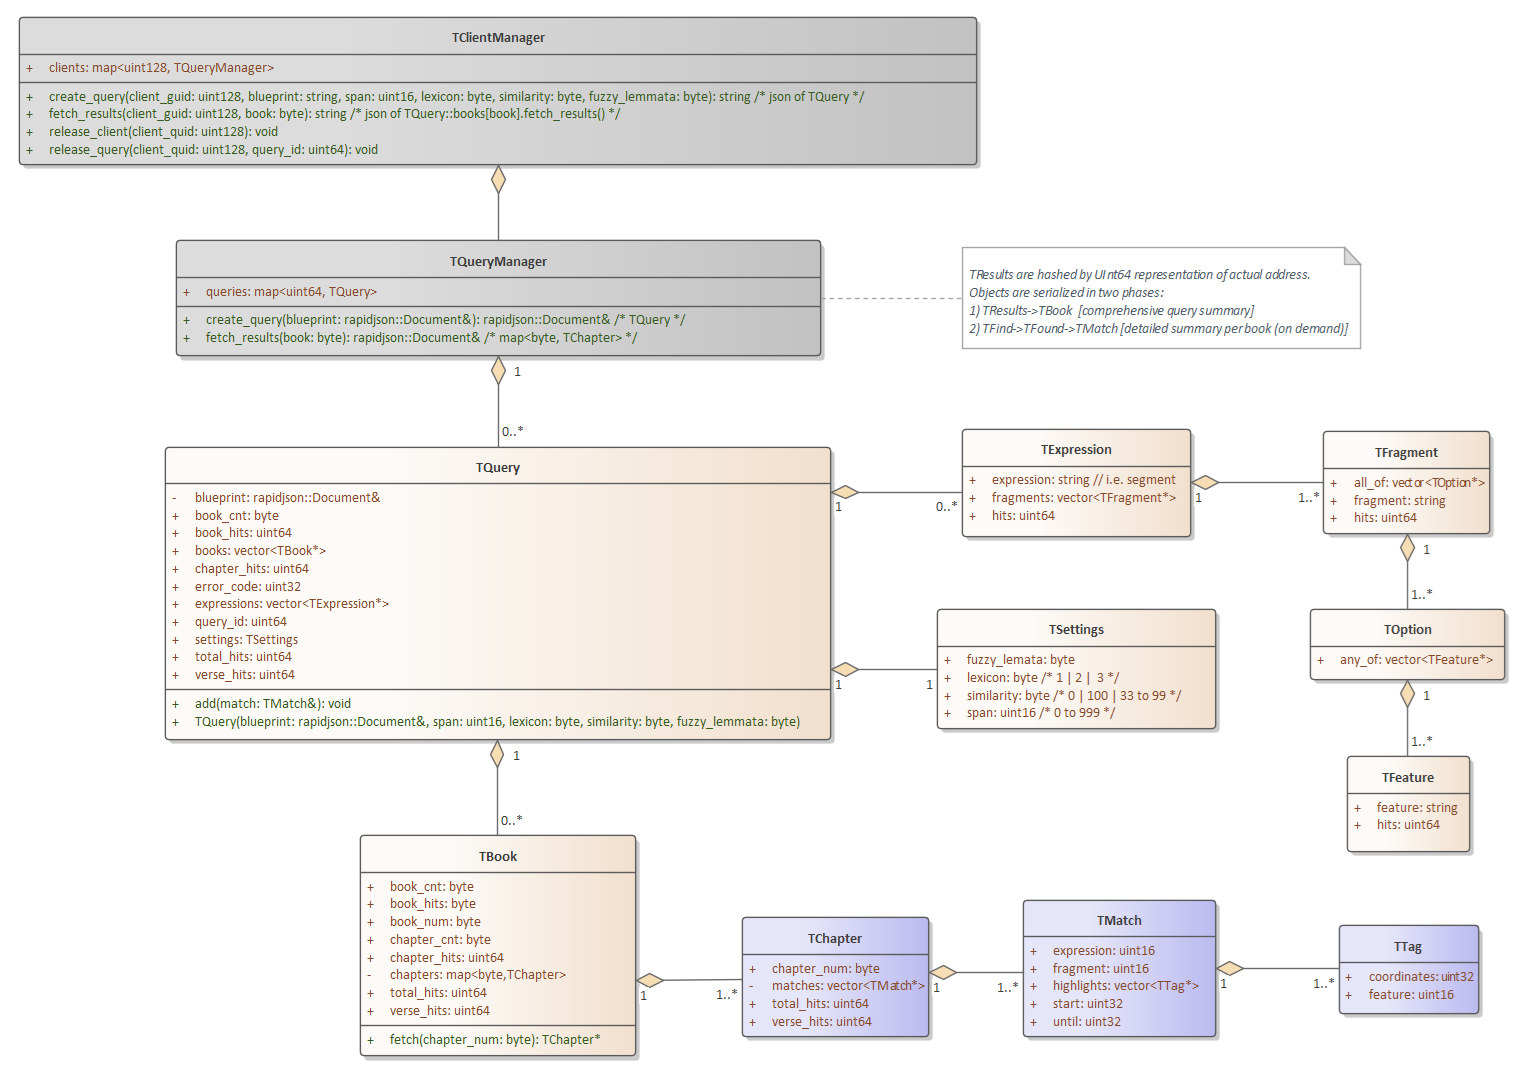
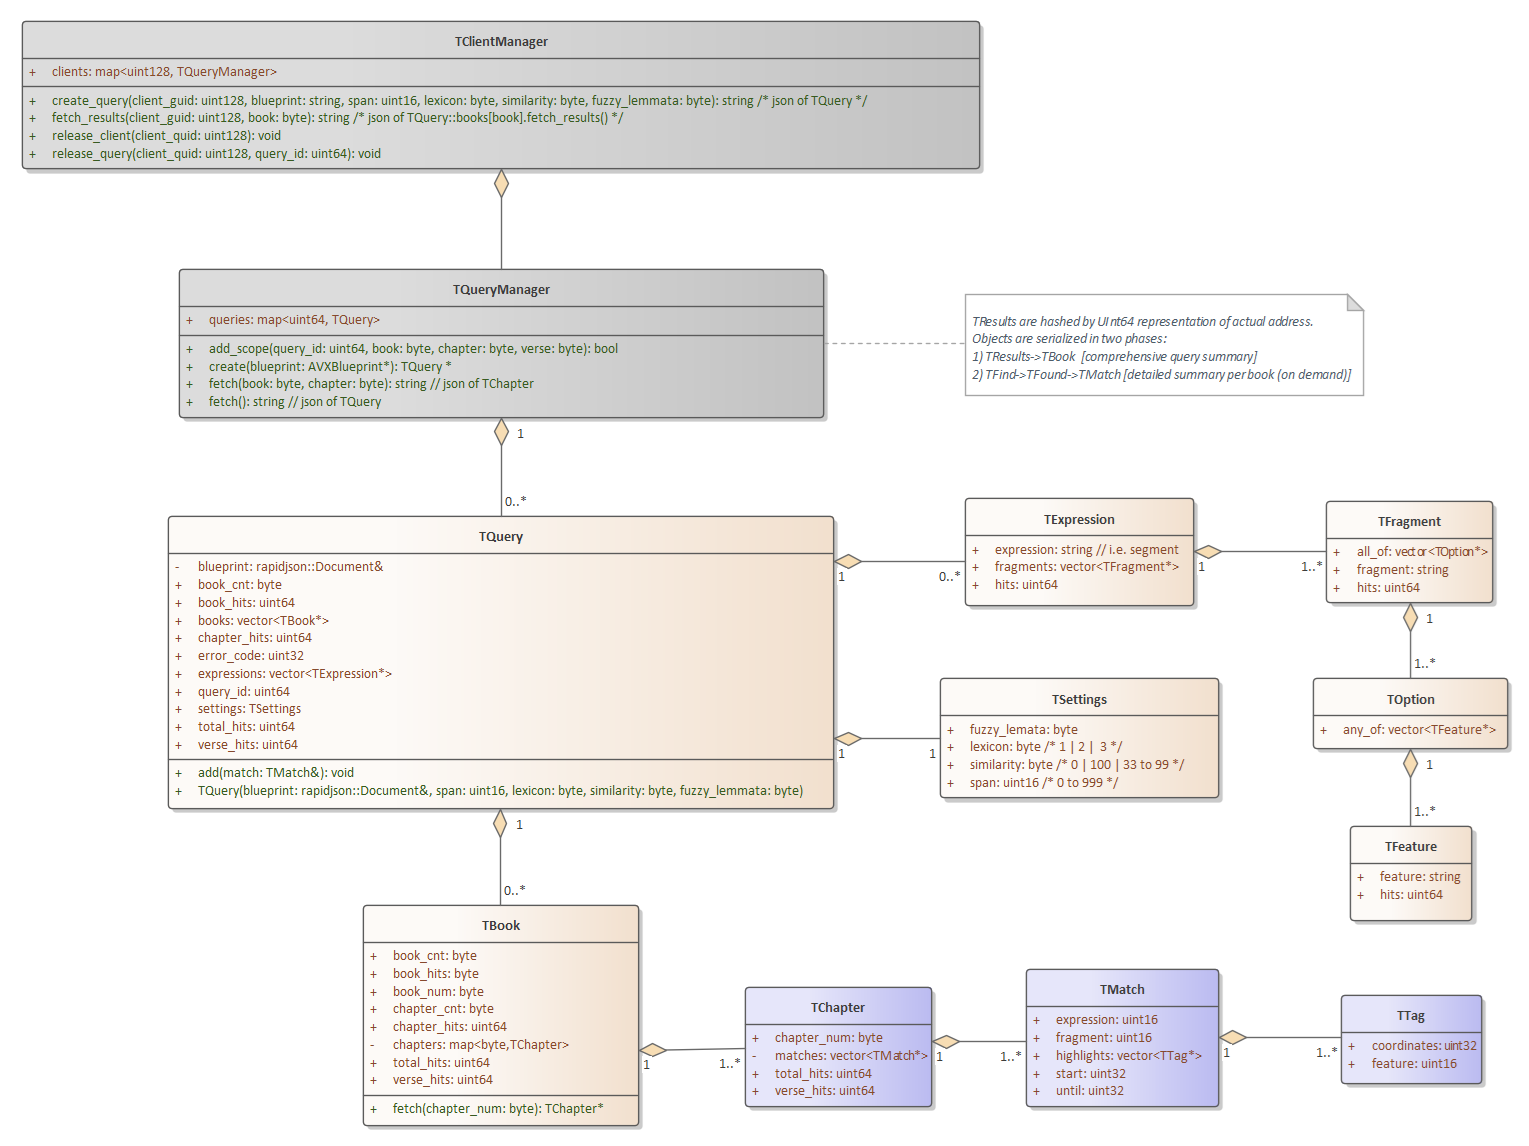
Cleaned up API and synced with spec/readme pic

diff --git a/AV-Engine/NativeLibrary.cs b/AV-Engine/NativeLibrary.cs
@@ -9,19 +9,17 @@
     {
         // AVX-Search:
         [DllImport("AVXSearch.dll", CharSet = CharSet.Ansi)]
-        private static extern UInt64 create_query(UInt64 client_id_1, UInt64 client_id_2, string blueprint, UInt16 span, byte lexicon, byte similarity, byte fuzzy_lemmata);
-        [DllImport("AVXSearch.dll", CharSet = CharSet.Ansi)]
-        private static extern string create_query_and_execute(UInt64 client_id_1, UInt64 client_id_2, string blueprint, UInt16 span, byte lexicon, byte similarity, byte fuzzy_lemmata);
+        private static extern UInt64 query_create(UInt64 client_id_1, UInt64 client_id_2, string blueprint, UInt16 span, byte lexicon, byte similarity, byte fuzzy_lemmata);
         [DllImport("AVXSearch.dll")]
-        private static extern byte add_scope(UInt64 client_id_1, UInt64 client_id_2, UInt64 query_id, byte book, byte chapter, byte verse);
+        private static extern byte query_add_scope(UInt64 client_id_1, UInt64 client_id_2, UInt64 query_id, byte book, byte chapter, byte verse);
         [DllImport("AVXSearch.dll", CharSet = CharSet.Ansi)]
-        private static extern string execute(UInt64 client_id_1, UInt64 client_id_2, UInt64 query_id);
+        private static extern string query_fetch(UInt64 client_id_1, UInt64 client_id_2, UInt64 query_id);
         [DllImport("AVXSearch.dll", CharSet = CharSet.Ansi)]
-        private static extern string fetch_results(UInt64 client_id_1, UInt64 client_id_2, UInt64 query_id, byte book);
+        private static extern string chapter_fetch(UInt64 client_id_1, UInt64 client_id_2, UInt64 query_id, byte book);
         [DllImport("AVXSearch.dll")]
-        private static extern void release_client(UInt64 client_id_1, UInt64 client_id_2);
+        private static extern void client_release(UInt64 client_id_1, UInt64 client_id_2);
         [DllImport("AVXSearch.dll")]
-        private static extern void release_query(UInt64 client_id_1, UInt64 client_id_2, UInt64 query_id);
+        private static extern void query_release(UInt64 client_id_1, UInt64 client_id_2, UInt64 query_id);
 
         private UInt64 ClientId_1
         {
@@ -58,35 +56,30 @@
         {
             this.ClientId = new Guid();
         }
-        internal UInt64 create_query(string blueprint, UInt16 span, byte lexicon, byte similarity, byte fuzzy_lemmata)
+        internal UInt64 query_create(string blueprint, UInt16 span, byte lexicon, byte similarity, byte fuzzy_lemmata)
         {
-            var result = NativeLibrary.create_query(this.ClientId_1, this.ClientId_2, blueprint, span, lexicon, similarity, fuzzy_lemmata);
-            return result;
-        }
-        internal string create_query_and_execute(string blueprint, UInt16 span, byte lexicon, byte similarity, byte fuzzy_lemmata)
-        {
-            var result = NativeLibrary.create_query_and_execute(this.ClientId_1, this.ClientId_2, blueprint, span, lexicon, similarity, fuzzy_lemmata);
+            var result = NativeLibrary.query_create(this.ClientId_1, this.ClientId_2, blueprint, span, lexicon, similarity, fuzzy_lemmata);
             return result;
         }
         internal string fetch_results(UInt64 query_id, byte book)
         {
-            return NativeLibrary.fetch_results(this.ClientId_1, this.ClientId_2, query_id, book);
+            return NativeLibrary.chapter_fetch(this.ClientId_1, this.ClientId_2, query_id, book);
         }
-        internal bool add_scope(UInt64 query_id, byte book, byte chapter, byte verse)
+        internal bool query_add_scope(UInt64 query_id, byte book, byte chapter, byte verse)
         {
-            return NativeLibrary.add_scope(this.ClientId_1, this.ClientId_2, query_id, book, chapter, verse) == (byte)1 ? true : false;
+            return NativeLibrary.query_add_scope(this.ClientId_1, this.ClientId_2, query_id, book, chapter, verse) == (byte)1 ? true : false;
         }
-        internal string execute(UInt64 query_id)
+        internal string fetch_summary(UInt64 query_id)
         {
-            return NativeLibrary.execute(this.ClientId_1, this.ClientId_2, query_id);
+            return NativeLibrary.query_fetch(this.ClientId_1, this.ClientId_2, query_id);
         }
-        internal void release_client()
+        internal void client_release()
         {
-            NativeLibrary.release_client(this.ClientId_1, this.ClientId_2);
+            NativeLibrary.client_release(this.ClientId_1, this.ClientId_2);
         }
-        internal void release_query(UInt64 queryId) // QueryId is in the payload returned by create_query
+        internal void query_release(UInt64 queryId) // QueryId is in the payload returned by create_query
         {
-            NativeLibrary.release_query(this.ClientId_1, this.ClientId_2, queryId);
+            NativeLibrary.query_release(this.ClientId_1, this.ClientId_2, queryId);
         }
 
         // AVX-Text
@@ -124,17 +117,17 @@
                 // this.address = from the desrialized yaml
                 // brute force
 
-                this.Address = this.External.create_query(blueprint, span, lexicon, similarity, fuzzy_lemmata ? (byte)1 : (byte)0);
-                this.Summary = this.External.execute(this.Address);
+                this.Address = this.External.query_create(blueprint, span, lexicon, similarity, fuzzy_lemmata ? (byte)1 : (byte)0);
+                this.Summary = this.External.fetch_summary(this.Address);
             }
             else
             {
-                this.Address = this.External.create_query(blueprint, span, lexicon, similarity, fuzzy_lemmata ? (byte)1 : (byte)0);
+                this.Address = this.External.query_create(blueprint, span, lexicon, similarity, fuzzy_lemmata ? (byte)1 : (byte)0);
                 foreach (var spec in scope)
                 {
-                    this.External.add_scope(this.Address, spec.book, spec.chapter, spec.verse);
+                    this.External.query_add_scope(this.Address, spec.book, spec.chapter, spec.verse);
                 }
-                this.Summary = this.External.execute(this.Address);
+                this.Summary = this.External.fetch_summary(this.Address);
             }
             return (this.Address != 0 && !string.IsNullOrWhiteSpace(this.Summary));
         }
@@ -147,7 +140,7 @@
         public void Free()
         {
             if (this.Address != 0)
-                this.External.release_query(this.Address);
+                this.External.query_release(this.Address);
             this.Address = 0;
         }
         public void Release()

diff --git a/AVXSearch/TClientManager.cpp b/AVXSearch/TClientManager.cpp
@@ -15,35 +15,19 @@ static TClientManager ClientManager;
 static const char* EMPTY = "";
 
 // C API:
-extern "C" __declspec(dllexport) uint64 create_query(uint64 client_id1, uint64 client_id2, char blueprint[], uint16 span, byte lexicon, byte similarity, byte fuzzy_lemmata)
+extern "C" __declspec(dllexport) uint64 query_create(uint64 client_id1, uint64 client_id2, char blueprint[], uint16 span, byte lexicon, byte similarity, byte fuzzy_lemmata)
 {
 	uint128 client_id(client_id1, client_id2);
-	return uint64(ClientManager.initialize(client_id, blueprint, span, lexicon, similarity, fuzzy_lemmata));
+	return uint64(ClientManager.query_create(client_id, blueprint, span, lexicon, similarity, fuzzy_lemmata));
 }
 
-extern "C" __declspec(dllexport) const char* create_query_and_execute(uint64 client_id1, uint64 client_id2, char blueprint[], uint16 span, byte lexicon, byte similarity, byte fuzzy_lemmata)
+extern "C" __declspec(dllexport) byte query_add_scope(uint64 client_id1, uint64 client_id2, uint64 query_id, byte book, byte chapter, byte verse_from, byte verse_to)
 {
 	uint128 client_id(client_id1, client_id2);
-	TQuery* query = ClientManager.initialize(client_id, blueprint, span, lexicon, similarity, fuzzy_lemmata);
-	rapidjson::Document doc;
-
-	//if (query->execute(doc))
-	{
-		;
-	}
-
-	// TO DO (TODO): Serialize tree into json string
-
-	return EMPTY;
+	return ClientManager.query_scope_add(client_id, query_id, book, chapter, verse_from, verse_to) ? byte(1) : byte(0);
 }
 
-extern "C" __declspec(dllexport) byte add_scope(uint64 client_id1, uint64 client_id2, uint64 query_id, byte book, byte chapter, byte verse)
-{
-	uint128 client_id(client_id1, client_id2);
-	return ClientManager.add_scope(client_id, query_id, book, chapter, verse) ? byte(1) : byte(2);
-}
-
-extern "C" __declspec(dllexport) const char* execute(uint64 client_id1, uint64 client_id2, uint64 query_id)
+extern "C" __declspec(dllexport) const char* query_fetch(uint64 client_id1, uint64 client_id2, uint64 query_id)
 {
 	uint128 client_id(client_id1, client_id2);
 
@@ -57,7 +41,7 @@ extern "C" __declspec(dllexport) const char* execute(uint64 client_id1, uint64 c
 	return EMPTY;
 }
 
-extern "C" __declspec(dllexport) const char* fetch(uint64 client_id1, uint64 client_id2, uint64 query_id, byte book, byte chapter)
+extern "C" __declspec(dllexport) const char* chapter_fetch(uint64 client_id1, uint64 client_id2, uint64 query_id, byte book, byte chapter)
 {
 	uint128 client_id(client_id1, client_id2);
 	rapidjson::Document doc;
@@ -72,16 +56,16 @@ extern "C" __declspec(dllexport) const char* fetch(uint64 client_id1, uint64 cli
 	return EMPTY;
 }
 
-extern "C" __declspec(dllexport) void release_client(uint64 client_id1, uint64 client_id2)
+extern "C" __declspec(dllexport) void client_release(uint64 client_id1, uint64 client_id2)
 {
 	uint128 client_id(client_id1, client_id2);
-	ClientManager.release_client(client_id);
+	ClientManager.client_release(client_id);
 }
 
-extern "C" __declspec(dllexport) void release_query(uint64 client_id1, uint64 client_id2, uint64 query_id)
+extern "C" __declspec(dllexport) void query_release(uint64 client_id1, uint64 client_id2, uint64 query_id)
 {
 	uint128 client_id(client_id1, client_id2);
-	ClientManager.release_query(client_id, query_id);
+	ClientManager.query_release(client_id, query_id);
 }
 
 TClientManager::TClientManager(){
@@ -92,7 +76,7 @@ TClientManager::~TClientManager(){
 
 }
 
-TQuery* TClientManager::initialize(uint128 client_id, char blueprint[], uint16 span, byte lexicon, byte similarity, byte fuzzy_lemmata)
+TQuery* TClientManager::query_create(uint128 client_id, char blueprint[], uint16 span, byte lexicon, byte similarity, byte fuzzy_lemmata)
 {
 	AVXBlueprint* oo_blueprint = new AVXBlueprint(blueprint, span, lexicon, similarity, fuzzy_lemmata);
 
@@ -107,12 +91,12 @@ TQuery* TClientManager::initialize(uint128 client_id, char blueprint[], uint16 s
 		qmgr = new TQueryManager();
 		this->clients.insert(std::make_pair(client_id, qmgr));
 	}
-	TQuery* query = qmgr->initialize(oo_blueprint);
+	TQuery* query = qmgr->create(oo_blueprint);
 	/* TO DO: json serialization (TODO) */
 	return  nullptr;
 }
 
-bool TClientManager::add_scope(uint128 client_id, uint64 query_id, byte book, byte chapter, byte verse)
+bool TClientManager::query_scope_add(uint128 client_id, uint64 query_id, byte book, byte chapter, byte verse_from, byte verse_to)
 {
 	TQueryManager* qmgr = nullptr;
 	auto candidate = this->clients.find(client_id);
@@ -120,12 +104,12 @@ bool TClientManager::add_scope(uint128 client_id, uint64 query_id, byte book, by
 	{
 		qmgr = candidate->second;
 
-		return qmgr->add_scope(query_id, book, chapter, verse);
+		return qmgr->add_scope(query_id, book, chapter, verse_from, verse_to);
 	}
 	return false;
 }
 
-std::string TClientManager::execute(uint128 client_id, uint64 query_id)
+std::string TClientManager::fetch(uint128 client_id, uint64 query_id)
 {
 	TQueryManager* qmgr = nullptr;
 	auto candidate = this->clients.find(client_id);
@@ -133,7 +117,7 @@ std::string TClientManager::execute(uint128 client_id, uint64 query_id)
 	{
 		qmgr = candidate->second;
 
-		return qmgr->execute(query_id);
+		return qmgr->fetch(query_id);
 	}
 	return "";
 }
@@ -152,12 +136,12 @@ std::string TClientManager::fetch(uint128 client_id, uint64 query_id, byte book,
 	return "";
 }
 
-void TClientManager::release_client(uint128 client_id)
+void TClientManager::client_release(uint128 client_id)
 {
 	;
 }
 
-void TClientManager::release_query(uint128 client_quid, uint64 query_id)
+void TClientManager::query_release(uint128 client_quid, uint64 query_id)
 {
 	;
 }

diff --git a/AVXSearch/TQueryManager.cpp b/AVXSearch/TQueryManager.cpp
@@ -23,7 +23,7 @@ TQueryManager::~TQueryManager(){
 
 }
 
-TQuery * TQueryManager::initialize(AVXBlueprint* blueprint)
+TQuery * TQueryManager::create(AVXBlueprint* blueprint)
 {
 	auto query = new TQuery(blueprint);
 	auto query_id = uint64(query);
@@ -32,19 +32,25 @@ TQuery * TQueryManager::initialize(AVXBlueprint* blueprint)
 	return query;
 }
 
-bool TQueryManager::add_scope(uint64 query_id, byte book, byte chapter, byte verse)
+bool TQueryManager::add_scope(uint64 query_id, byte book, byte chapter, byte verse_from, byte verse_to)
 {
 	auto iquery = this->queries.find(query_id);
 	if (iquery != this->queries.end())
 	{
 		TQuery* query = this->queries[query_id];
-		query->scope.push_back(uint32(book) << 16 | uint32(chapter) << 8 | verse);
+
+        uint32 verse_range = 0;
+        if (verse_from != 0)
+        {
+            verse_range = uint32(verse_from) << 24 + uint32(verse_to) << 16;
+        }
+		query->scope.push_back(uint32(book) << 16 | uint32(chapter) << 8 | verse_range);
 		return true;
 	}
 	return false;
 }
 
-std::string TQueryManager::execute(uint64 query_id)
+std::string TQueryManager::fetch(uint64 query_id)
 {
 	auto iquery = this->queries.find(query_id);
 	if (iquery != this->queries.end())

diff --git a/AVXSearch/TClientManager.h b/AVXSearch/TClientManager.h
@@ -19,17 +19,17 @@ public:
 	virtual ~TClientManager();
 	std::map<uint128, TQueryManager*> clients;
 
-	TQuery* initialize(uint128 client_guid, char blueprint[], uint16 span, byte lexicon, byte similarity, byte fuzzy_lemmata);
-	bool add_scope(uint128 client_guid, uint64 query_id, byte book, byte chapter, byte verse);
+	TQuery* query_create(uint128 client_guid, char blueprint[], uint16 span, byte lexicon, byte similarity, byte fuzzy_lemmata);
+	bool query_scope_add(uint128 client_guid, uint64 query_id, byte book, byte chapter, byte verse_from, byte verse_to);
 
 	// returns json of TQuery:
-	std::string execute(uint128 client_guid, uint64 query_id);
+	std::string fetch(uint128 client_guid, uint64 query_id);
 
-	// returns json of TQuery::books[book].fetch_results():
+	// returns json of TChapter:
 	std::string fetch(uint128 client_id, uint64 query_id, byte book, byte chapter);
 
-	void release_client(uint128 client_guid);
-	void release_query(uint128 client_guid, uint64 query_id);
+	void client_release(uint128 client_guid);
+	void query_release(uint128 client_guid, uint64 query_id);
 
 };
 #endif // !defined(EA_36732251_A4F4_46b0_B9B8_642CCE3A147B__INCLUDED_)

diff --git a/AVXSearch/TQueryManager.h b/AVXSearch/TQueryManager.h
@@ -16,17 +16,19 @@ class TQueryManager
 {
 public:
 	TQueryManager();
+
 	virtual ~TQueryManager();
 	std::map<uint64, TQuery*> queries;
 
-	TQuery* initialize(AVXBlueprint* blueprint);
-	bool add_scope(uint64 query_id, byte book, byte chapter, byte verse);
-	std::string execute(uint64 query_id);
+	TQuery* create(AVXBlueprint* blueprint);
+	bool add_scope(uint64 query_id, byte book, byte chapter, byte verse_from, byte verse_to);
+	std::string fetch(uint64 query_id);
 	std::string fetch(uint64 query_id, byte book, byte chapter);
 
 	bool search_quoted(TQuery& query, AVXFind& segment);
 	bool search_unquoted(TQuery& query, AVXFind& segment);
 
+private:
 	inline const bool find(TQuery& query, AVXFind& segment)
 	{
 		bool found = segment.quoted ? search_quoted(query, segment) : search_unquoted(query, segment);

diff --git a/AVXSearch/TTag.h b/AVXSearch/TTag.h
@@ -41,7 +41,7 @@ public:
     
     inline byte get_book()
     {
-        return byte(coordinates >> 24);
+        return byte(coordinates & 0xFF00 >> 24);
     }
     inline byte get_chapter()
     {
